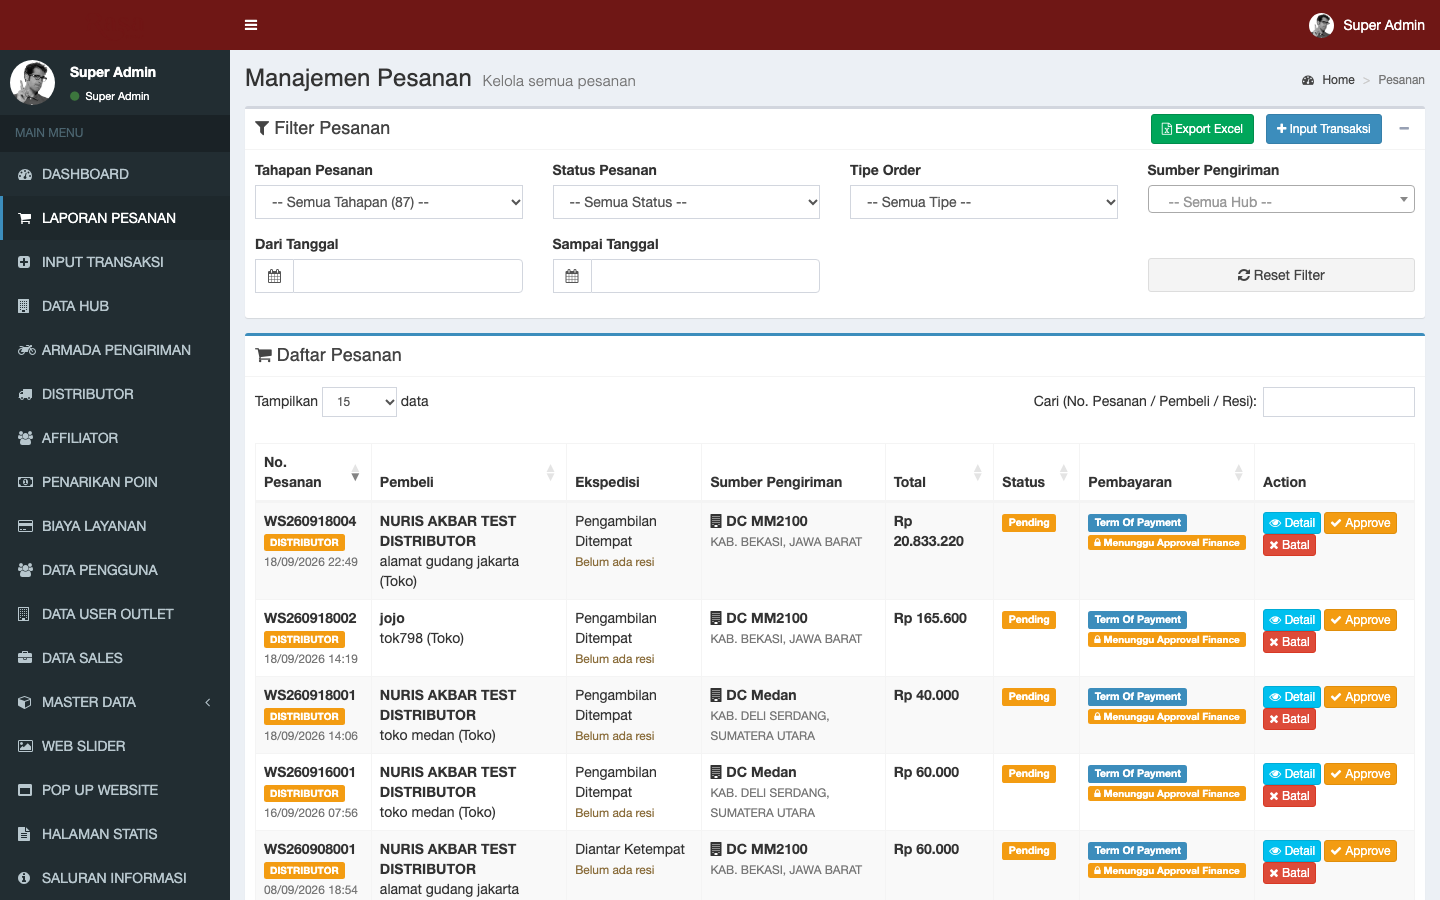
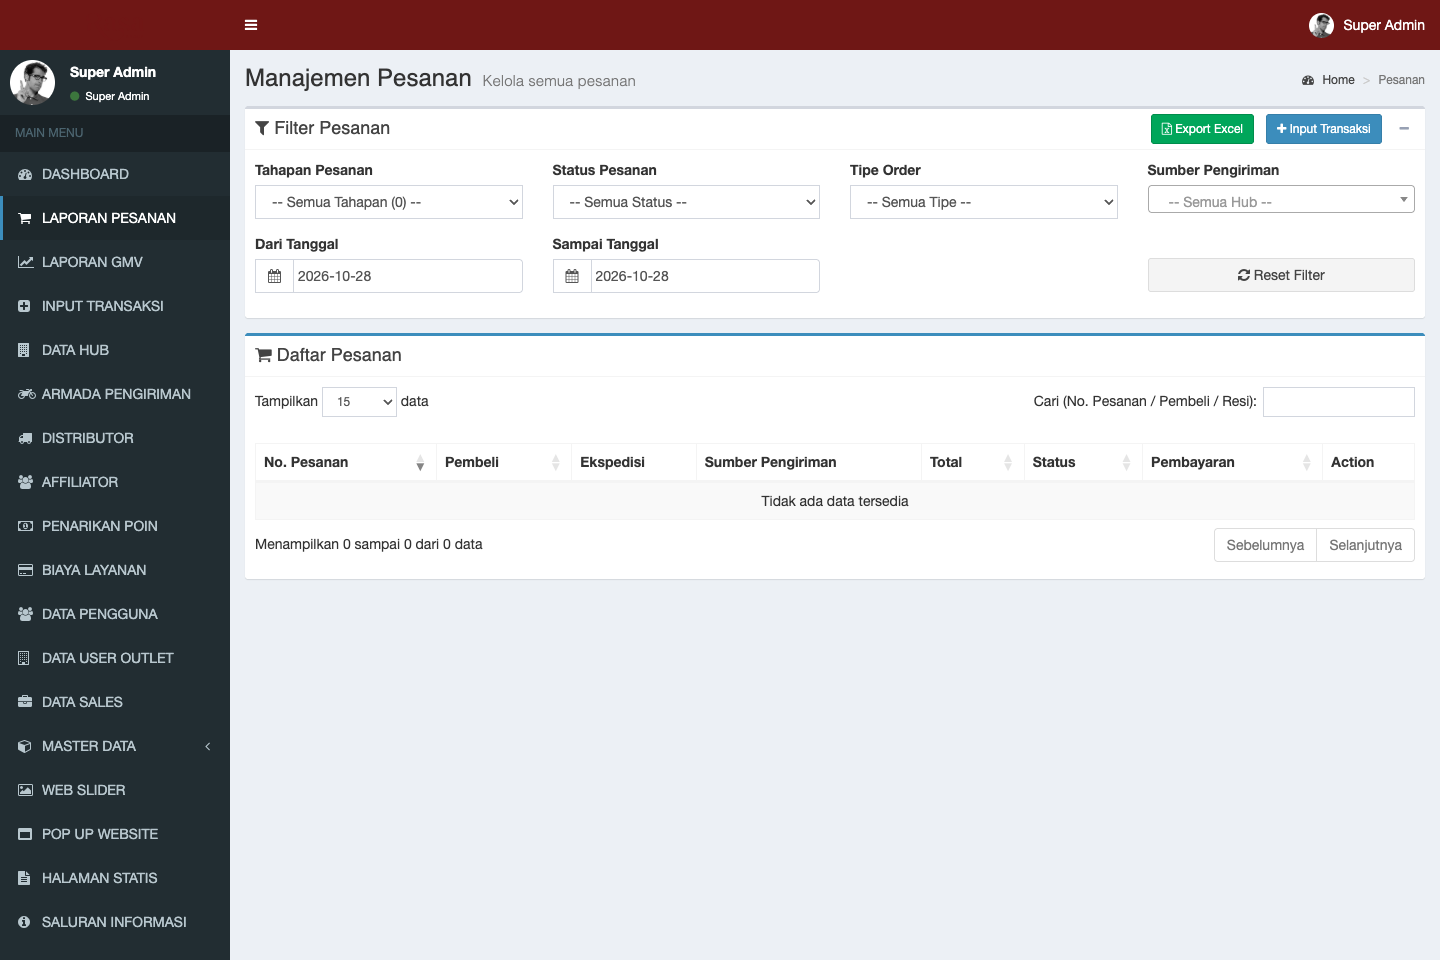
docs: tambahkan tangkapan layar (screenshots) step-by-step untuk seluruh modul di manual book admin

diff --git a/docs/MANUAL_BOOK_ADMIN_ORDER_RASACONNECT.md b/docs/MANUAL_BOOK_ADMIN_ORDER_RASACONNECT.md
@@ -64,6 +64,9 @@ Sistem membatasi akses menu dan wewenang eksekusi berdasarkan peran kerja masing
 
 Dashboard admin (`/admin/dashboard`) adalah pusat komando visual untuk memantau performa harian dan bulanan seluruh lini usaha Rasa Group.
 
+![Dashboard Admin dan Snapshot GMV Bulan Berjalan](manual_book_images/01_dashboard_admin.png)
+*Gambar 2.1: Antarmuka Dashboard Admin dengan Kartu Metrik, Widget Snapshot GMV Bulan Berjalan, dan Grafik Tren Pesanan.*
+
 ### A. Kartu Indikator Utama (Executive Metric Cards)
 1. **Total Produk**: Jumlah SKU aktif dalam katalog sistem.
 2. **Total Pesanan**: Akumulasi pesanan yang pernah tercatat.
@@ -99,6 +102,9 @@ Portal mengelola 2 (dua) jenis pesanan utama:
 ### 3.1. Filter Tahapan Pesanan (Workflow Pipeline)
 Dropdown **Tahapan Pesanan** membagi transaksi ke dalam antrean kerja:
 
+![Daftar Pesanan dan Filter Tahapan](manual_book_images/01_daftar_pesanan.png)
+*Gambar 3.2: Antarmuka Daftar Pesanan Admin dengan Filter Tahapan, Tipe Order, dan Sumber Hub Pengirim.*
+
 | Tahapan Pesanan | Indikator Sistem | Arti & Prosedur Tindak Lanjut Admin |
 | :--- | :--- | :--- |
 | **Semua Tahapan** | `countSemua` | Menampilkan seluruh riwayat transaksi aktif maupun arsip. |
@@ -118,6 +124,9 @@ Dropdown **Tahapan Pesanan** membagi transaksi ke dalam antrean kerja:
 - **Admin tidak perlu menekan tombol verifikasi manual.**
 
 #### B. Persetujuan Kredit Distributor (Term of Payment - TOP)
+![Detail Pesanan Distributor TOP dan Approval Finance](manual_book_images/02_detail_pesanan_distributor_top.png)
+*Gambar 3.3: Informasi Finansial Distributor, Status Approval Finance, dan Riwayat Integrasi Sistem.*
+
 1. Tim Finance membuka filter tahapan **Menunggu Approval Finance**.
 2. Buka **Detail Pesanan** dan evaluasi panel **Informasi Finansial Distributor**:
    - **Credit Limit**: Total plafon kredit yang diberikan kepada distributor.
@@ -127,6 +136,13 @@ Dropdown **Tahapan Pesanan** membagi transaksi ke dalam antrean kerja:
 3. **Eksekusi:**
    - Jika sisa limit mencukupi dan tidak ada tunggakan jatuh tempo (*overdue*), klik tombol hijau: **Approve Finance (set ke 1)**.
    - Sistem membuka status pesanan, memicu sinkronisasi ke QAD ERP/WMS, dan mengirim notifikasi WhatsApp otomatis ke staf gudang hub pengirim.
+
+#### C. Verifikasi Bukti Transfer Bank Manual
+![Verifikasi Bukti Pembayaran Transfer Bank Manual](manual_book_images/03_verifikasi_transfer_manual.png)
+*Gambar 3.4: Panel Verifikasi Bukti Pembayaran Transfer Bank Manual.*
+
+- Jika transaksi menggunakan transfer rekening bank manual, periksa berkas bukti transfer yang diunggah pelanggan.
+- Cocokkan mutasi rekening koran bank. Jika dana telah masuk efektif, ubah status pembayaran menjadi **Paid**.
 
 ---
 
@@ -141,6 +157,9 @@ Pada halaman detail pesanan, terdapat panel integrasi sistem terpusat:
 ---
 
 ### 3.4. Pengelolaan Pengiriman & Ekspedisi
+
+![Proses Pengiriman Ekspedisi dan Resi](manual_book_images/04_pengiriman_ekspedisi_resi.png)
+*Gambar 3.5: Panel Pengiriman EkspedisiKu dengan Alur 3-Langkah (Booking, Pickup, Lacak).*
 
 #### Opsi A — Buat Booking Otomatis (EkspedisiKu API Partner / Lion Parcel / J&T / JNE)
 1. Pada kartu **1. Buat Booking**, periksa rincian ekspedisi, layanan kurir, bobot, dan alamat tujuan.
@@ -166,6 +185,12 @@ Pada halaman detail pesanan, terdapat panel integrasi sistem terpusat:
 - **Surat Jalan (Delivery Note)**: Klik tombol **[Cetak Surat Jalan]** di header atas untuk mencetak dokumen tanda terima fisik rangkap 2 (1 lembar arsip hub, 1 lembar menyertai barang) lengkap dengan nomor batch, kuantiti per pack/karton, dan kolom tanda tangan 3 pihak.
 - **Proforma Invoice**: Klik tombol **[Download Proforma Invoice]** untuk mengunduh berkas PDF penagihan resmi berformat barcode unik dengan rincian DPP, PPN 11%, dan rekening resmi perusahaan.
 
+![Surat Jalan Resmi Pengiriman Barang](manual_book_images/05_cetak_surat_jalan.png)
+*Gambar 3.6: Dokumen Surat Jalan Resmi Rasa Group (Delivery Note).*
+
+![Proforma Invoice Resmi RasaConnect](manual_book_images/06_proforma_invoice.png)
+*Gambar 3.7: Dokumen Proforma Invoice Resmi Rasa Group.*
+
 ---
 
 ### 3.6. Penyelesaian & Pembatalan Pesanan
@@ -179,6 +204,9 @@ Pada halaman detail pesanan, terdapat panel integrasi sistem terpusat:
 Menu: **Laporan Pesanan &rarr; Input Transaksi** (`/admin/orders/create`)
 
 Modul ini digunakan oleh staf e-commerce, admin sales, atau kasir showroom untuk menginput pesanan yang diterima secara offline (walk-in store), pemesanan via telepon/WhatsApp, maupun pesanan darurat distributor.
+
+![Formulir Pembuatan Pesanan Manual POS Kasir](manual_book_images/modul_04_input_transaksi_manual.png)
+*Gambar 4.1: Antarmuka Input Transaksi Manual dengan Pencarian Pelanggan, Atribusi Sales, Level Harga Otomatis, dan Alokasi Hub.*
 
 ### Langkah-Langkah Pembuatan Pesanan Manual:
 1. **Pilih Pelanggan (Customer)**:
@@ -210,6 +238,9 @@ Modul ini digunakan oleh staf e-commerce, admin sales, atau kasir showroom untuk
 Menu: **Laporan Pesanan &rarr; Laporan GMV** (`/admin/reports/gmv`)
 
 Modul ini menyajikan analisis finansial komprehensif atas total volume transaksi kotor, efektivitas promosi, nilai bersih barang dagangan, dan pendapatan riil perusahaan.
+
+![Dashboard Laporan dan Analisis GMV RasaConnect](manual_book_images/modul_05_laporan_analisis_gmv.png)
+*Gambar 5.1: Antarmuka Laporan GMV dengan Filter Periode Cepat, Waterfall Rekonsiliasi, Grafik Tren Harian, dan Kontribusi per Hub.*
 
 ### 5.1. Definisi & Rumus Metrik Finansial
 - **Gross GMV (Gross Merchandise Value)**: Total akumulasi nilai transaksi penjualan kotor sebelum dikurangi biaya operasional, diskon kupon, maupun ongkos kirim.  
@@ -247,6 +278,9 @@ Menu: **Data Hub** (`/admin/warehouses`)
 
 Modul ini mengatur seluruh titik distribusi fisik (Distribution Center / DC dan Hub Penjualan) serta stok inventori barang di masing-masing lokasi.
 
+![Daftar Master Hub dan Gudang Distribusi](manual_book_images/modul_06_data_hub_gudang.png)
+*Gambar 6.1: Antarmuka Master Hub dengan Pengaturan Wilayah Administratif, Jam Operasional, dan Pemetaan Multi-Sistem.*
+
 ### 6.1. Pengelolaan Master Hub & Identitas Lokasi
 1. Menambahkan atau mengubah data Hub: Nama Hub, Kode Hub (misal: `HUB-BKS`, `HUB-MGR`), Wilayah Administratif Indonesia (Provinsi, Kabupaten/Kota, Kecamatan, Kelurahan), Alamat Lengkap, Nomor Kontak, dan Jam Operasional.
 2. **Titik Koordinat Geografis (Latitude & Longitude)**: Wajib diisi dengan akurat karena digunakan oleh mesin penentu kurir instan/same-day (Lalamove & GoSend) untuk menghitung jarak tempuh penjemputan barang.
@@ -258,6 +292,9 @@ Agar setiap transaksi dan mutasi barang terhubung akurat ke sistem eksternal, se
 - **Zoho Books Branch & Location ID**: ID cabang/gudang di Zoho Books (misal: `Hub Bekasi: 7386545000004555006`, `Hub Maggiore: 7386545000004555140`). Memastikan Invoice dan Sales Order tercatat di pembukuan cabang yang tepat.
 
 ### 6.3. Manajemen Stok & Nomor Batch (Lot Serial & Expired Date)
+![Detail Hub dan Manajemen Stok Inventori WMS Multi-Batch](manual_book_images/modul_06_detail_hub_stok_wms.png)
+*Gambar 6.2: Tab Informasi Stok Gudang dengan Nomor Batch Fisik (Lot Serial), Tanggal Kedaluwarsa, Saldo Jubelio, dan Log Mutasi.*
+
 1. **Tab Informasi Stok (`/admin/warehouses/{id}`)**: Menampilkan daftar produk dengan dua saldo utama:
    - **Stok Fisik WMS**: Saldo fisik barang di gudang beserta rincian nomor batch (`lot_serial`) dan tanggal kedaluwarsa (`expired_at`).
    - **Stok Jubelio**: Saldo kuota agregat yang dipublikasikan ke kanal penjualan online/marketplace.
@@ -278,6 +315,9 @@ Menu: **Armada Pengiriman** (`/admin/armadas`)
 
 Modul ini mengelola armada kendaraan milik Rasa Group yang diperbantukan untuk pengiriman pesanan B2B, suplai antar-hub (*inter-hub transfer*), atau pengantaran khusus ke gerai/outlet mitra.
 
+![Manajemen Armada Pengiriman dan Driver Internal](manual_book_images/modul_07_armada_pengiriman.png)
+*Gambar 7.1: Daftar Armada Kendaraan Perusahaan, Nomor Polisi, Penugasan Kurir, Kapasitas Muatan, dan Status Operasional.*
+
 ### Prosedur Pengelolaan Armada:
 1. **Tambah Data Armada**:
    - Masukkan Nama/Tipe Armada (misal: *Blind Van Grand Max 01*, *Truk CDD Pendingin 02*, *Motor Delivery Hub Bekasi*).
@@ -297,6 +337,9 @@ Modul ini mengelola armada kendaraan milik Rasa Group yang diperbantukan untuk p
 Menu: **Distributor** (`/admin/distributors`)
 
 Mitra distributor adalah mitra dagang berskala besar yang memiliki hak distribusi wilayah dan fasilitas pembelian kredit dengan termin pembayaran (*Term of Payment* / TOP).
+
+![Manajemen Mitra Distributor dan Verifikasi Aplikasi](manual_book_images/modul_08_manajemen_distributor.png)
+*Gambar 8.1: Daftar Mitra Distributor Resmi dengan Pengaturan Credit Limit, Termin TOP, Target Belanja, dan Diskon Kategori.*
 
 ### 8.1. Verifikasi Aplikasi Calon Distributor Baru
 1. Masuk ke submenu **Aplikasi Distributor** (`/admin/distributors/applications`).
@@ -327,6 +370,9 @@ Menu: **Affiliator** (`/admin/driippreneurs`) dan **Penarikan Poin** (`/admin/po
 
 Program DRiiPPreneur adalah ekosistem kemitraan berbasis referral bagi barista, mixologist, cafe owner, dan kreator konten F&B untuk mempromosikan produk Rasa Group dan mendapatkan komisi berupa poin reward.
 
+![Manajemen Program Kemitraan DRiiPPreneur Affiliator](manual_book_images/modul_09_kemitraan_driippreneur.png)
+*Gambar 9.1: Pengelolaan Mitra Affiliator, Verifikasi Kelayakan (Eligibility), Kode Referral, dan Akumulasi Poin Reward.*
+
 ### 9.1. Verifikasi Kelayakan (Eligibility) Affiliator
 1. Buka menu **Affiliator**.
 2. Periksa profil mitra yang mengajukan diri.
@@ -338,6 +384,9 @@ Program DRiiPPreneur adalah ekosistem kemitraan berbasis referral bagi barista, 
 
 ### 9.3. SOP Otorisasi Penarikan Poin (Pencairan Dana ke Rekening)
 Menu: **Penarikan Poin** (`/admin/point-withdrawals`)
+
+![Persetujuan Penarikan Poin Affiliator Tim Finance](manual_book_images/modul_10_penarikan_poin_affiliator.png)
+*Gambar 9.2: Daftar Permohonan Pencairan Saldo Poin ke Rekening Bank dengan Alur Approval dan Eksekusi Transfer Finansial.*
 
 1. Tim Finance membuka daftar permohonan penarikan poin yang berstatus **Pending**.
 2. Periksa detail penarikan: Nama Mitra, Jumlah Poin yang Ditukar, Nominal Rupiah, Nama Bank, Nomor Rekening, dan Nama Pemilik Rekening.
@@ -355,6 +404,9 @@ Menu: **Biaya Layanan** (`/admin/payment-fees`)
 
 Modul ini dikelola oleh Tim Finance untuk mengatur biaya transaksi (*Merchant Discount Rate* / MDR) yang dikenakan oleh penyedia Payment Gateway (Faspay) untuk setiap metode pembayaran.
 
+![Pengaturan Tarif Fee Transaksi Payment Gateway Faspay](manual_book_images/modul_11_biaya_layanan_payment_fee.png)
+*Gambar 10.1: Konfigurasi Biaya Layanan Transaksi per Kanal Pembayaran (VA, QRIS, Kartu Kredit) dan Kebijakan Pembebanan Biaya.*
+
 ### Komponen Pengaturan Fee:
 1. **Metode Pembayaran**: Virtual Account Bank (BCA, Mandiri, BRI, BNI, Permata), QRIS, E-Wallet, dan Kartu Kredit.
 2. **Skema Perhitungan Fee**:
@@ -369,6 +421,9 @@ Modul ini dikelola oleh Tim Finance untuk mengatur biaya transaksi (*Merchant Di
 ## 11. MODUL DATA PENGGUNA & OUTLET (USER MANAGEMENT)
 
 Menu: **Data Pengguna** (`/admin/users`) dan **Data User Outlet** (`/admin/outlets`)
+
+![Manajemen Data Pengguna dan Penetapan Role Akses](manual_book_images/modul_12_manajemen_pengguna_users.png)
+*Gambar 11.1: Daftar Pengguna Sistem, Filter Peran (Role), Reset Password, dan Status Verifikasi Kontak WhatsApp.*
 
 ### 11.1. Tata Kelola Data Pengguna (Users)
 - **Kategori Peran Pengguna (User Roles)**:
@@ -391,6 +446,9 @@ Menu: **Data Pengguna** (`/admin/users`) dan **Data User Outlet** (`/admin/outle
 Menu: **Data Sales** (`/admin/sales`)
 
 Modul ini mendokumentasikan seluruh tenaga pemasar resmi (wiraniaga) Rasa Group untuk pencatatan komisi dan monitoring target penjualan.
+
+![Manajemen Master Salesperson dan Kode Sales](manual_book_images/modul_13_manajemen_sales.png)
+*Gambar 12.1: Daftar Wiraniaga Resmi, Kode Sales Unik, Coverage Area, dan Riwayat Transaksi Atribusi Penjualan.*
 
 ### Tata Cara Pengelolaan:
 1. **Tambah Master Sales**:
@@ -418,6 +476,9 @@ Tambahan Terkait:
  └── Voucher Promo (/admin/promos)
 ```
 
+![Manajemen Master Produk dan Katalog Dagang](manual_book_images/modul_14_master_produk.png)
+*Gambar 13.1: Master Katalog Produk dengan SKU, Brand, Kategori, Berat/Dimensi Logistik, Harga Ritel, dan Sinkronisasi Massal.*
+
 ### 13.1. Master Produk (`/admin/products`)
 - **Informasi Inti**: Nama Produk, Kode Produk / SKU, Brand, Kategori, Deskripsi, Komposisi, Saran Penyajian.
 - **Data Fisik (Sangat Kritikal untuk Ekspedisi)**:
@@ -434,6 +495,9 @@ Tambahan Terkait:
 - **Kategori (`/admin/categories`)**: Struktur klasifikasi produk (contoh: *Syrup*, *Powder*, *Sauce*, *Tea*, *Topping*).
 
 ### 13.3. Level Harga & Diskon Bertingkat
+![Pengaturan Potongan Harga Bertingkat Kuantiti Karton](manual_book_images/modul_15_level_harga_diskon_tier.png)
+*Gambar 13.2: Skema Diskon Bertingkat (Tiering Cart) Berdasarkan Jumlah Pembelian Satuan Pack dan Kartonan.*
+
 - **Level Harga (`/admin/price-levels`)**: Menetapkan harga khusus untuk kelompok pelanggan tertentu (misal: Harga Reseller Silver, Harga Reseller Gold, Harga Khusus Cafe Chain).
 - **Potongan Harga Bertingkat / Tiering (`/admin/discount-tiers`)**: Skema diskon otomatis saat kuantiti tertentu terpenuhi (contoh: Pembelian 6 s/d 11 botol diskon 5%; Pembelian $\ge 12$ botol / 1 karton diskon 12%).
 - **Voucher Promo (`/admin/promos`)**: Membuat kode kupon promosi belanja (contoh: `RASAHEMAT20`) dengan opsi diskon persentase atau nominal rupiah, masa kedaluwarsa kupon, kuota penggunaan, dan syarat minimum belanja.
@@ -443,6 +507,9 @@ Tambahan Terkait:
 ## 14. MODUL KONTEN WEBSITE & PEMASARAN (CMS)
 
 Modul ini dikelola oleh Tim Brand Marketing untuk memperbarui tampilan visual dan informasi storefront RasaConnect.
+
+![Pengelolaan Konten Banner Slider Halaman Beranda Web](manual_book_images/modul_16_konten_web_slider.png)
+*Gambar 14.1: Daftar Web Slider Promosi Storefront, Tautan Tujuan Kampanye, dan Pengaturan Urutan Prioritas Tampil.*
 
 ### 14.1. Web Slider (`/admin/sliders`)
 - Banner beranda dinamis yang tampil di bagian atas halaman web.
@@ -466,6 +533,9 @@ Modul ini dikelola oleh Tim Brand Marketing untuk memperbarui tampilan visual da
 Menu: **Pengaturan** (`/admin/settings`)
 
 Akses terbatas khusus **Super Admin** dan **IT Application Support**.
+
+![Pengaturan Sistem Terpusat Profil PPN dan Ekspedisi](manual_book_images/modul_17_pengaturan_sistem.png)
+*Gambar 15.1: Panel Pengaturan Identitas Perusahaan, Tarif PPN 11%, Rasio Poin Loyalitas, dan Aktivasi Layanan Ekspedisi.*
 
 ### 15.1. Tab Pengaturan Umum (General Settings)
 - **Nama Perusahaan / Portal**: Rasa Group / RasaConnect.
